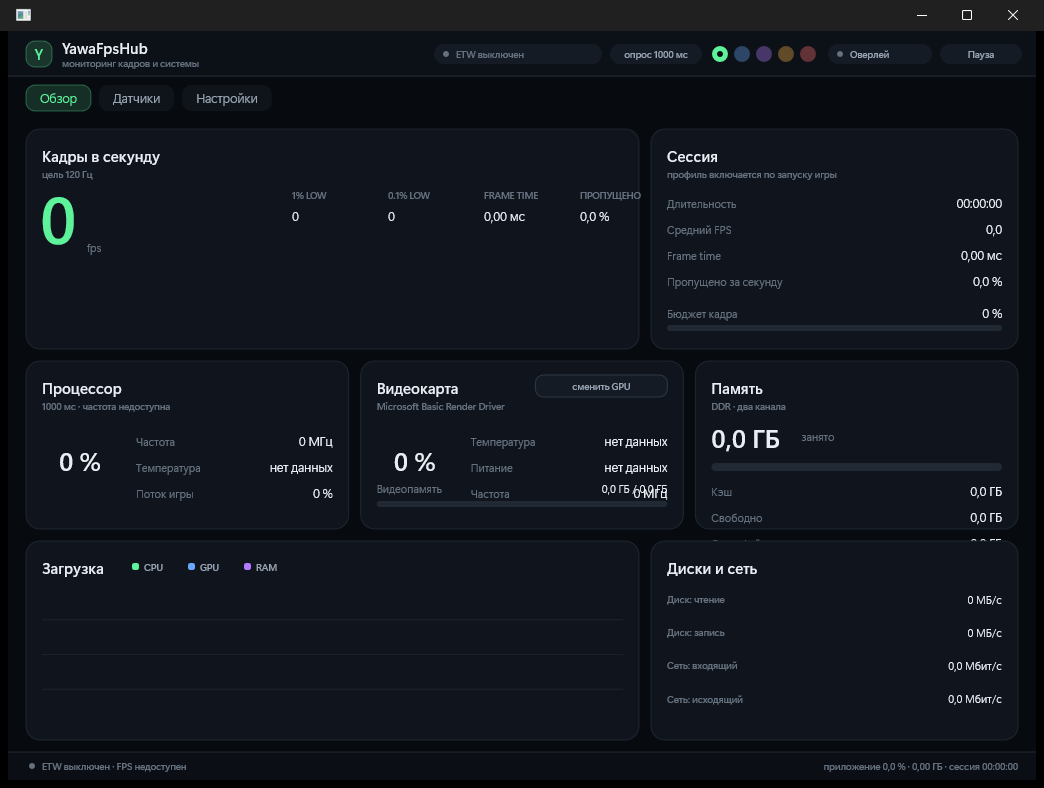
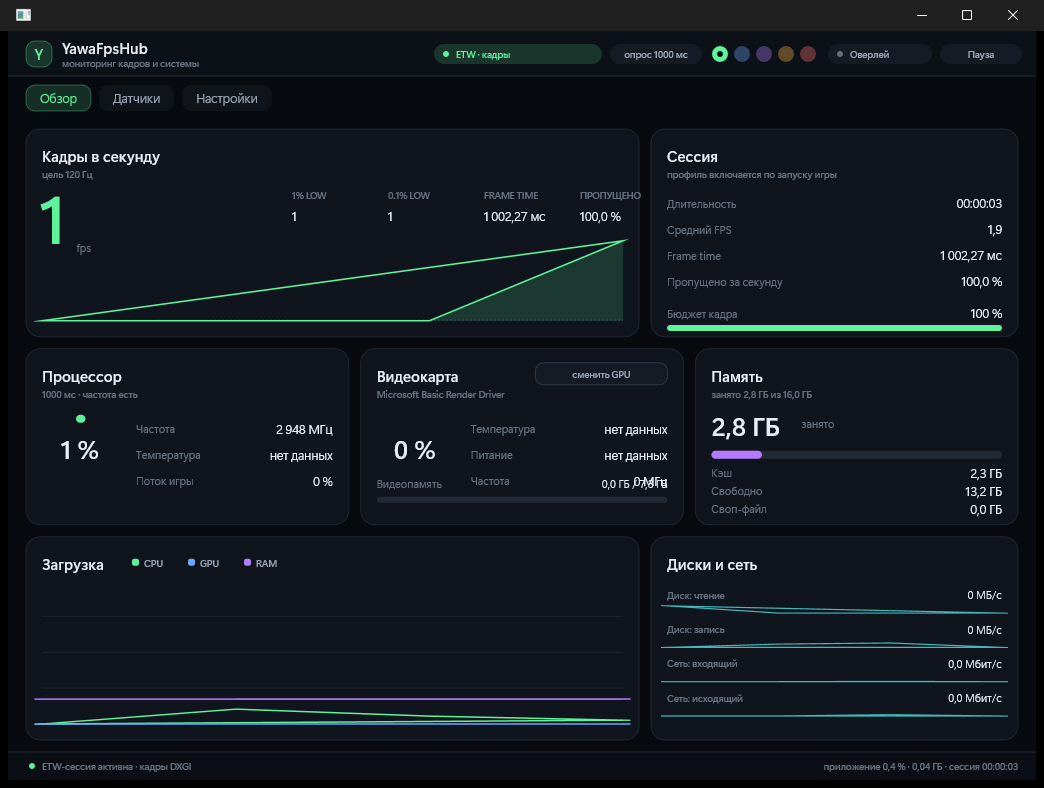
Дашборд и датчики: нет выдуманных нулей, видеопамять без наложения

diff --git a/app/ui/dashboard_view.cpp b/app/ui/dashboard_view.cpp
@@ -7,6 +7,37 @@
 namespace yawa {
 namespace {
 
+// Ноль у этих датчиков означает не «нет нагрузки», а «источник не отдал значение»
+// (частота, температура, питание нулём не бывают). Показываем честное «нет данных»,
+// а не выдуманный нуль.
+bool isMissing(MetricId id, double value)
+{
+    switch (id) {
+    case MetricId::CpuTemp:
+    case MetricId::CpuClock:
+    case MetricId::CpuPower:
+    case MetricId::GameThreadLoad:
+    case MetricId::GpuTemp:
+    case MetricId::GpuHotspot:
+    case MetricId::GpuClock:
+    case MetricId::GpuMemClock:
+    case MetricId::GpuPower:
+    case MetricId::GpuFan:
+    case MetricId::VramTotal:
+    case MetricId::DiskTemp:
+    case MetricId::ChipsetTemp:
+        return value <= 0.0;
+    default:
+        return false;
+    }
+}
+
+std::wstring metricOrNone(const MetricStore& store, MetricId id)
+{
+    const double value = store.value(id);
+    return isMissing(id, value) ? std::wstring(L"нет данных") : wideMetric(id, value);
+}
+
 void drawFpsCard(Renderer& renderer, const AppModel& model, const Theme& theme, const Rect& card)
 {
     drawCard(renderer, card, theme);
@@ -123,17 +154,16 @@ void drawProcessorCard(Renderer& renderer, const AppModel& model, const Theme& t
 
     const float rowsLeft = centerX + radius + 26.0f;
     const std::pair<std::wstring, std::wstring> rows[] = {
-        { L"Частота", wideMetric(MetricId::CpuClock, model.store.value(MetricId::CpuClock)) },
-        { L"Температура", model.availability.cpuTemperature
-                ? wideMetric(MetricId::CpuTemp, model.store.value(MetricId::CpuTemp))
-                : L"нет данных" },
-        { L"Поток игры", wideMetric(MetricId::GameThreadLoad, model.store.value(MetricId::GameThreadLoad)) },
+        { L"Частота", metricOrNone(model.store, MetricId::CpuClock) },
+        { L"Температура", model.availability.cpuTemperature ? metricOrNone(model.store, MetricId::CpuTemp)
+                                                            : std::wstring(L"нет данных") },
+        { L"Питание", metricOrNone(model.store, MetricId::CpuPower) },
     };
 
-    float top = inner.top + 56.0f;
+    float top = inner.top + 58.0f;
     for (const auto& [label, value] : rows) {
         drawLabelValue(renderer, Rect{ rowsLeft, top, inner.right, top + 18.0f }, label, value, theme);
-        top += 26.0f;
+        top += 24.0f;
     }
 }
 
@@ -167,32 +197,38 @@ void drawGraphicsCard(Renderer& renderer, const AppModel& model, const Theme& th
         wideNumber(load, MetricUnit::Percent, 0), theme.text);
 
     const float rowsLeft = centerX + radius + 26.0f;
+    const double vramTotal = model.store.value(MetricId::VramTotal);
+
     const std::pair<std::wstring, std::wstring> rows[] = {
-        { L"Температура", model.availability.gpuTemperature
-                ? wideMetric(MetricId::GpuTemp, model.store.value(MetricId::GpuTemp))
-                : L"нет данных" },
-        { L"Питание", model.availability.gpuPower ? wideMetric(MetricId::GpuPower, model.store.value(MetricId::GpuPower))
-                                                  : L"нет данных" },
-        { L"Частота", wideMetric(MetricId::GpuClock, model.store.value(MetricId::GpuClock)) },
+        { L"Температура", model.availability.gpuTemperature ? metricOrNone(model.store, MetricId::GpuTemp)
+                                                            : std::wstring(L"нет данных") },
+        { L"Питание", model.availability.gpuPower ? metricOrNone(model.store, MetricId::GpuPower)
+                                                  : std::wstring(L"нет данных") },
+        { L"Частота", metricOrNone(model.store, MetricId::GpuClock) },
     };
 
-    float top = inner.top + 56.0f;
+    float top = inner.top + 54.0f;
     for (const auto& [label, value] : rows) {
         drawLabelValue(renderer, Rect{ rowsLeft, top, inner.right, top + 18.0f }, label, value, theme);
-        top += 26.0f;
+        top += 23.0f;
     }
 
-    const float vramTotal = std::max(static_cast<float>(model.store.value(MetricId::VramTotal)), 0.001f);
-    const float used = static_cast<float>(model.store.value(MetricId::VramUsed) / vramTotal);
+    const float vramTop = inner.bottom - 30.0f;
+    renderer.text(L"Видеопамять", Rect{ inner.left, vramTop, inner.left + 120.0f, vramTop + 16.0f }, TextRole::Small,
+        theme.textFaint);
 
-    renderer.text(L"Видеопамять", Rect{ inner.left, inner.bottom - 34.0f, inner.left + 120.0f, inner.bottom - 16.0f },
-        TextRole::Small, theme.textFaint);
-    renderer.text(wideMetric(MetricId::VramUsed, model.store.value(MetricId::VramUsed)) + L" / "
-            + wideMetric(MetricId::VramTotal, vramTotal),
-        Rect{ inner.left + 120.0f, inner.bottom - 34.0f, inner.right, inner.bottom - 16.0f }, TextRole::Small,
-        theme.text, TextAlign::Right);
-    drawBar(renderer, Rect{ inner.left, inner.bottom - 12.0f, inner.right, inner.bottom - 6.0f }, used, theme.gpu,
-        theme.line);
+    if (vramTotal > 0.0) {
+        const double vramUsed = model.store.value(MetricId::VramUsed);
+        renderer.text(wideNumber(vramUsed, MetricUnit::Gigabytes, 1) + L" / "
+                + wideNumber(vramTotal, MetricUnit::Gigabytes, 1),
+            Rect{ inner.left + 120.0f, vramTop, inner.right, vramTop + 16.0f }, TextRole::Small, theme.text,
+            TextAlign::Right);
+        drawBar(renderer, Rect{ inner.left, inner.bottom - 9.0f, inner.right, inner.bottom - 4.0f },
+            static_cast<float>(vramUsed / vramTotal), theme.gpu, theme.line);
+    } else {
+        renderer.text(L"нет данных", Rect{ inner.left + 120.0f, vramTop, inner.right, vramTop + 16.0f },
+            TextRole::Small, theme.textFaint, TextAlign::Right);
+    }
 }
 
 void drawMemoryCard(Renderer& renderer, const AppModel& model, const Theme& theme, const Rect& card)

diff --git a/app/ui/sensors_view.cpp b/app/ui/sensors_view.cpp
@@ -23,18 +23,46 @@ constexpr std::array<SensorGroup, 6> kGroups{ {
     { L"Система", MetricId::ChipsetTemp, 4 },
 } };
 
+// Датчики без источника в приложении (нет MSR-драйвера, нет NVML, поток игры не отслеживается)
+// не должны выглядеть как настоящие нули.
+bool isMeasured(MetricId id, const MetricSlot& slot)
+{
+    if (!slot.stats.initialized) {
+        return false;
+    }
+    switch (id) {
+    case MetricId::CpuTemp:
+    case MetricId::CpuClock:
+    case MetricId::CpuPower:
+    case MetricId::GameThreadLoad:
+    case MetricId::GpuTemp:
+    case MetricId::GpuHotspot:
+    case MetricId::GpuClock:
+    case MetricId::GpuMemClock:
+    case MetricId::GpuPower:
+    case MetricId::GpuFan:
+    case MetricId::VramTotal:
+    case MetricId::DiskTemp:
+    case MetricId::ChipsetTemp:
+        return slot.stats.current > 0.0;
+    default:
+        return true;
+    }
+}
+
 void drawRow(Renderer& renderer, const AppModel& model, const Theme& theme, MetricId id, const Rect& row)
 {
     const MetricInfo& info = metricInfo(id);
     const MetricSlot& slot = model.store.slot(id);
+    const bool measured = isMeasured(id, slot);
 
     renderer.text(wideText(info.label), Rect{ row.left, row.top, row.left + row.width() * 0.42f, row.bottom },
         TextRole::Small, theme.textDim);
-    renderer.text(wideMetric(id, slot.stats.current),
-        Rect{ row.left + row.width() * 0.42f, row.top, row.left + row.width() * 0.66f, row.bottom }, TextRole::Body,
-        theme.text, TextAlign::Right);
+    renderer.text(measured ? wideMetric(id, slot.stats.current) : std::wstring(L"нет данных"),
+        Rect{ row.left + row.width() * 0.42f, row.top, row.left + row.width() * 0.66f, row.bottom },
+        measured ? TextRole::Body : TextRole::Small, measured ? theme.text : theme.textFaint, TextAlign::Right);
 
-    const std::wstring stats = slot.stats.initialized ? wideNumber(slot.stats.minimum, info.unit, info.decimals)
+    const std::wstring stats = measured ? wideNumber(slot.stats.minimum, info.unit, info.decimals)
             + L" · " + wideNumber(slot.stats.average, info.unit, info.decimals) + L" · "
             + wideNumber(slot.stats.maximum, info.unit, info.decimals)
                                                   : L"—";
